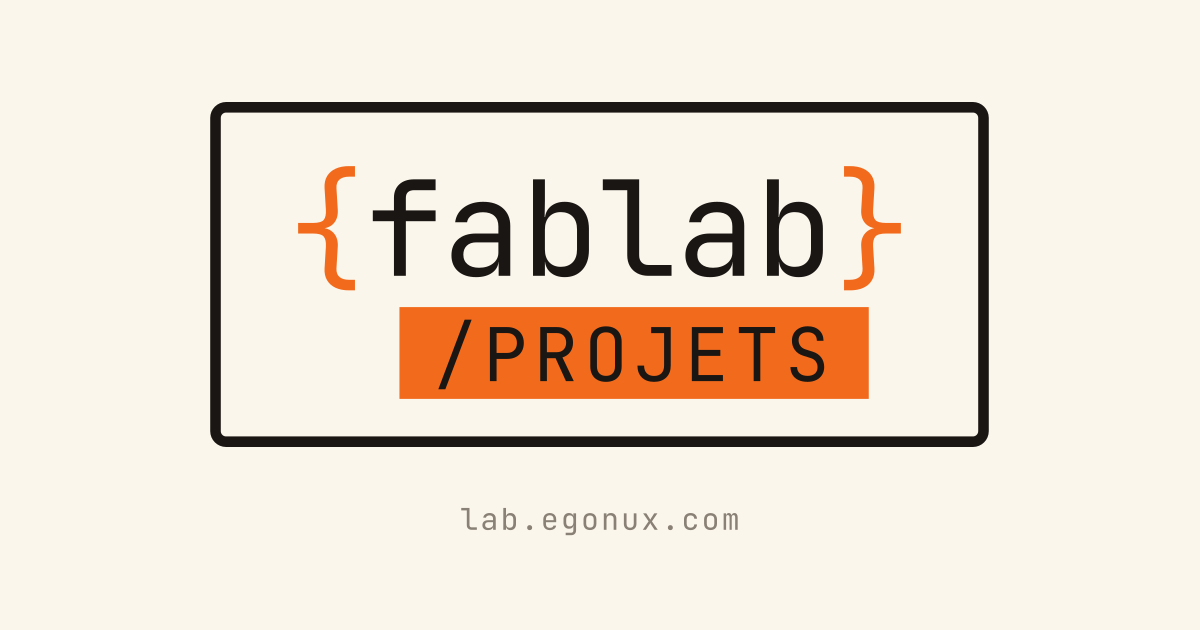
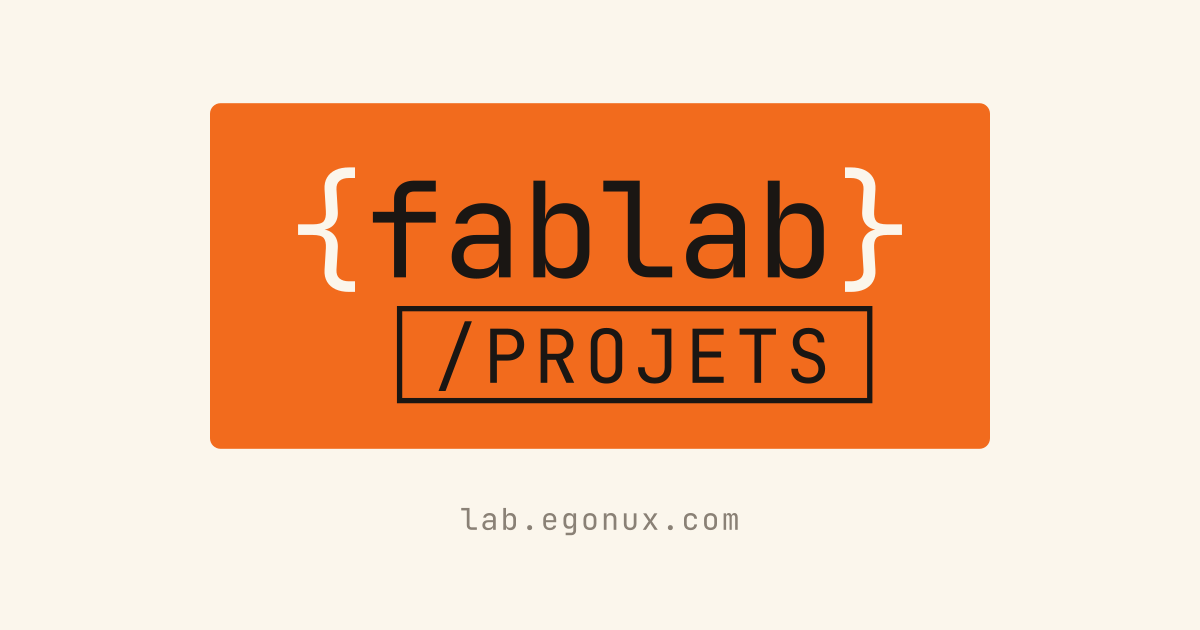
Logotype : accolades au papier, section cernée ; légendes calées sur le filet (report depuis fablab)

Changed region(s): [[0.1542, 0.1508, 0.8325, 0.7238]]

diff --git a/quartz/styles/custom.scss b/quartz/styles/custom.scss
@@ -56,11 +56,17 @@
 :root {
   --bloc-repos: var(--safran);
   --bloc-survol: var(--dark);
+  /* Les accolades au repos : au papier sur l'étiquette safran, où le safran
+     les avalait ; safran sur la page nue du thème sombre. Au survol elles
+     sont safran dans les deux cas — visibles sur l'encre, fondues dans le
+     safran. */
+  --accolades-repos: var(--light);
 }
 
 :root[saved-theme="dark"] {
   --bloc-repos: var(--light);
   --bloc-survol: var(--safran);
+  --accolades-repos: var(--safran);
 }
 
 /* La sélection à la souris est du safran plein, texte en noir : la même
@@ -191,8 +197,16 @@ h6,
    lire, et deux signes gras à ce corps se reconnaissent sans se déchiffrer. */
 .page-title .marque::before,
 .page-title .marque::after {
-  color: var(--safran);
+  color: var(--accolades-repos);
   font-weight: 700;
+  transition: color 0.18s;
+}
+
+.page-title:hover .marque::before,
+.page-title:hover .marque::after,
+.page-title:focus-within .marque::before,
+.page-title:focus-within .marque::after {
+  color: var(--safran);
 }
 
 .page-title .marque::before {
@@ -231,11 +245,18 @@ h6,
   text-transform: uppercase;
   color: var(--sur-safran);
   background-color: var(--safran);
+  /* Un filet fin à l'encre — crème sur fond sombre —, tracé à l'intérieur
+     de l'étiquette (`outline` à décalage négatif : rien ne bouge). Sur
+     l'étiquette safran du logotype au repos, il est ce qui distingue encore
+     la section du bloc ; sur la page nue du thème sombre, il la détache de
+     la page. Il reste dans tous les états. */
+  outline: 1px solid var(--dark);
+  outline-offset: -1px;
 }
 
 /* Recherche : strictement le même traitement que le logotype : bordure de
    2px à l'encre, fond transparent, angles à 2px, JetBrains Mono, accolades
-   rouges. Seule la taille diffère, pour que la recherche ne concurrence pas
+   safran. Seule la taille diffère, pour que la recherche ne concurrence pas
    le titre du site. */
 .search > .search-button {
   display: flex;
@@ -435,11 +456,20 @@ body[data-slug="index"] article {
 
 .callout[data-callout="rubriques"] li > a::before {
   content: "{";
-  color: var(--safran);
+  color: var(--accolades-repos);
+  transition: color 0.18s;
 }
 
 .callout[data-callout="rubriques"] li > a::after {
   content: "}";
+  color: var(--accolades-repos);
+  transition: color 0.18s;
+}
+
+.callout[data-callout="rubriques"] li > a:hover::before,
+.callout[data-callout="rubriques"] li > a:hover::after,
+.callout[data-callout="rubriques"] li > a:focus-visible::before,
+.callout[data-callout="rubriques"] li > a:focus-visible::after {
   color: var(--safran);
 }
 
@@ -2274,11 +2304,28 @@ article p:has(> img:only-child) + p:has(> em:only-child) {
   /* Le filet et le remplissage comptent dans les 40 % : en `content-box`, la
      légende débordait de dix pixels à gauche du cadre de la photo. */
   box-sizing: border-box;
+  position: relative;
   text-align: left;
-  border-left: 4px solid var(--safran);
-  padding-left: 0.5em;
+  /* Le filet est un calque et non une bordure : il part du bas de l'image et
+     s'arrête sur la ligne de base de la dernière ligne, là où une bordure
+     descendrait jusque sous les jambages. Le remplissage du haut écarte la
+     première ligne de l'image d'autant. */
+  padding: 0.35em 0 0 calc(0.5em + 4px);
   font-size: 0.76rem;
-  line-height: 1.4;
+  line-height: 1.3;
+}
+
+article p:has(> img:only-child) + p:has(> em:only-child)::before {
+  content: "";
+  position: absolute;
+  left: 0;
+  top: 0;
+  /* JetBrains Mono monte à 1,02 em et descend à 0,3 em ; à l'interligne 1,3
+     la demi-interligne vaut -0,01 em, et la ligne de base tombe donc 0,29 em
+     au-dessus du bas de la boîte. */
+  bottom: 0.29em;
+  width: 4px;
+  background-color: var(--safran);
 }
 
 article p:has(> img:only-child) + p > em:only-child {

diff --git a/CHARTE.md b/CHARTE.md
@@ -56,8 +56,8 @@ liens. Son bord droit — celui du texte, pas du bloc — tombe à 0,58 em du bo
 droit de la marque.
 
 Dans les pages, sur papier, le logotype est une étiquette safran pleine,
-texte à l'encre, accolades fondues dans le bloc ; au survol il s'encre, texte
-papier, et les accolades ressortent. Sur fond sombre il est nu au repos —
+texte à l'encre, accolades au papier, section cernée d'un filet fin à
+l'encre ; au survol il s'encre, texte papier, accolades safran. Sur fond sombre il est nu au repos —
 crème sur la page, accolades safran, section en étiquette — et devient
 l'étiquette safran au survol. Le trait de 2 px, de la couleur du bloc, reste
 le cadre de la version gravure : un trait de 0,08
@@ -165,9 +165,10 @@ Quatre règles :
    au papier ; sur thème sombre le bloc est crème et le texte noir, `--dark`
    et `--light` s'inversent et la règle est la même. Le logotype et les
    rubriques de l'accueil s'échangent avec le thème : sur papier, étiquette
-   safran au repos, accolades fondues dans le bloc, et bloc d'encre à texte
-   papier au survol ; sur fond sombre, la marque nue au repos — crème,
-   accolades safran, section en étiquette — et l'étiquette safran au survol.
+   safran au repos, accolades au papier, section cernée d'un filet fin, et
+   bloc d'encre à texte papier au survol, accolades safran ; sur fond sombre,
+   la marque nue au repos — crème, accolades safran, section en étiquette —
+   et l'étiquette safran au survol.
    Le bouton `{recherche}`, seul, garde le fond de la page et son cadre
    d'encre dans les deux thèmes : c'est un outil, pas un rayon.
 3. **Les marques d'autrui passent en noir.** Le logo du CIDFF est le seul en
